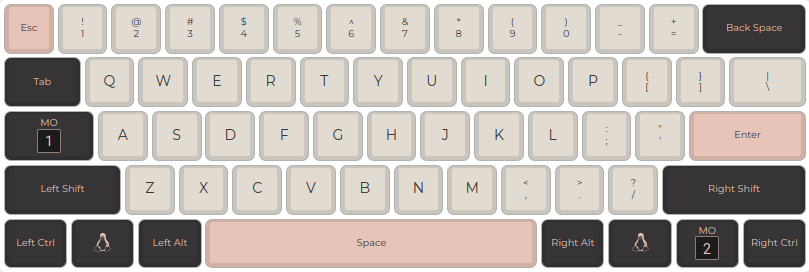
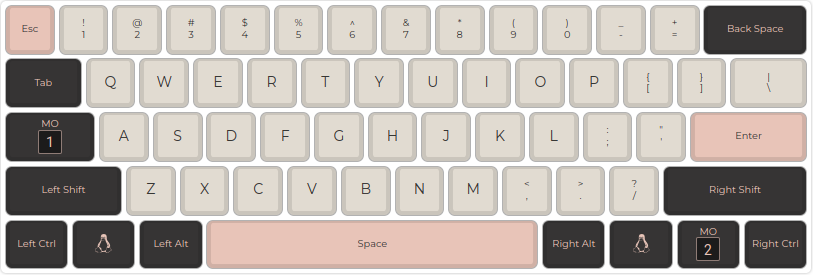
New layout image and documentation

diff --git a/README.md b/README.md
@@ -4,6 +4,8 @@ Firmware: https://github.com/zmkfirmware/zmk/
 
 Board: https://github.com/makerdiary/m60
 
+Layout: Import [m60_layout_60_ansi.json](m60_layout_60_ansi.json) on https://keyboard.makerdiary.com/
+
 ## Layers
 
 ### Default
